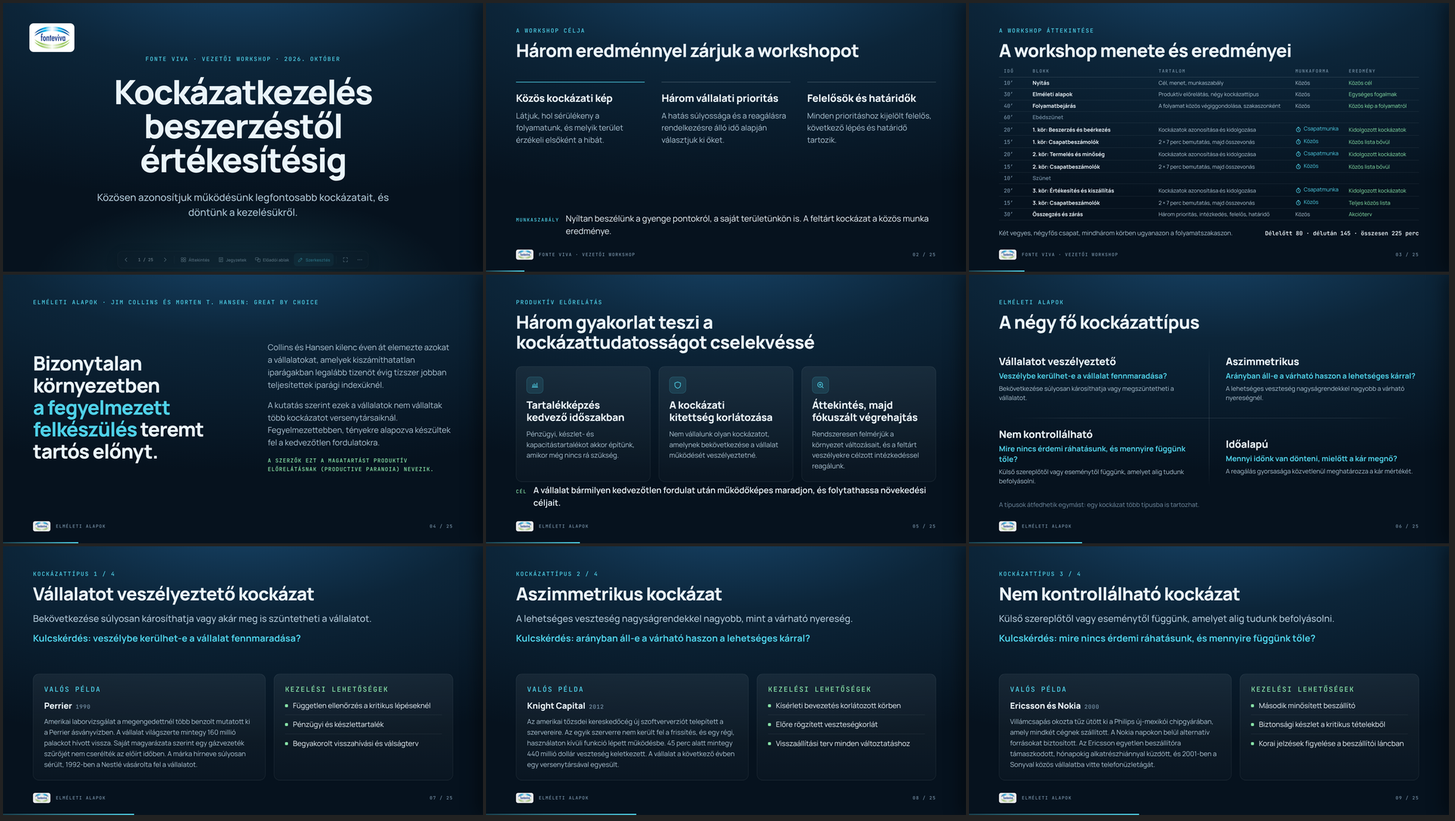
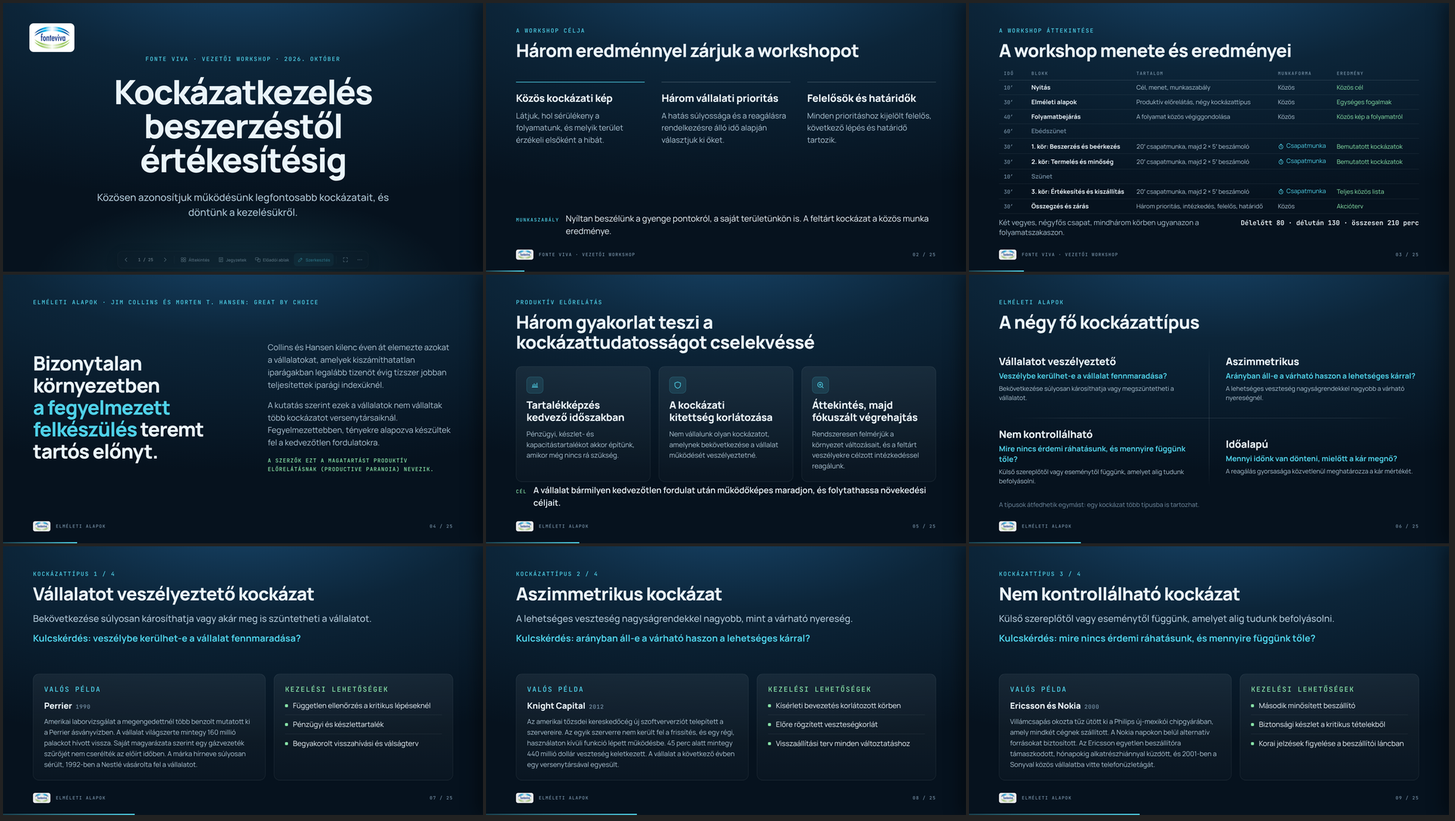
Agenda: one row per round; team presentations 5 minutes each
Each round is a single agenda line (20' teamwork, then 2 x 5'
presentations, 30' in total). Presentation timers default to 5 minutes
and the presentation slot to 10 minutes. Afternoon is now 130 minutes.

Claude-Session: https://claude.ai/code/session_016tPSh7PmmycC1ZoCkMYjCT

Changed region(s): [[0.6846, 0.0938, 0.9647, 0.3125]]

diff --git a/Fonte_Viva_kockazati_workshop.html b/Fonte_Viva_kockazati_workshop.html
@@ -1,5 +1,5 @@
 <!doctype html>
-<html lang="hu" data-rev="v4" data-durations='{"open":10,"basics":30,"walk":40,"lunch":60,"r1":20,"p1":15,"r2":20,"p2":15,"brk":10,"r3":20,"p3":15,"sum":30,"rep":7}' data-sound="1">
+<html lang="hu" data-rev="v5" data-durations='{"open":10,"basics":30,"walk":40,"lunch":60,"r1":20,"p1":10,"r2":20,"p2":10,"brk":10,"r3":20,"p3":10,"sum":30,"rep":5}' data-sound="1">
 <head>
 <meta charset="utf-8">
 <meta name="viewport" content="width=device-width, initial-scale=1">
@@ -81,9 +81,9 @@ body.on-cover #foot,body.on-cover #progress{display:none}
 .rule .lbl{color:var(--cyan);flex:none}
 
 /* agenda table */
-.agt{width:100%;border-collapse:collapse;margin-top:26px;font-size:18px;table-layout:fixed}
-.agt th{font-family:var(--m);font-weight:500;font-size:15px;letter-spacing:.15em;text-transform:uppercase;color:var(--dim);text-align:left;padding:0 16px 10px;border-bottom:1px solid var(--line2)}
-.agt td{padding:6px 16px;border-bottom:1px solid var(--line);vertical-align:baseline;line-height:1.35;color:var(--soft)}
+.agt{width:100%;border-collapse:collapse;margin-top:34px;font-size:20.5px;table-layout:fixed}
+.agt th{font-family:var(--m);font-weight:500;font-size:15px;letter-spacing:.15em;text-transform:uppercase;color:var(--dim);text-align:left;padding:0 16px 12px;border-bottom:1px solid var(--line2)}
+.agt td{padding:10px 16px;border-bottom:1px solid var(--line);vertical-align:baseline;line-height:1.35;color:var(--soft)}
 .agt tbody tr{cursor:pointer;transition:background .15s}
 .agt tbody tr:hover{background:rgba(79,209,232,.07)}
 body.editing .agt tbody tr{cursor:text}
@@ -95,8 +95,8 @@ body.editing .agt tbody tr{cursor:text}
 .agt .out{color:var(--aqua)}
 .agt tr.brk .nm{color:var(--dim);font-weight:600}
 .agt tr.pm td{border-top:1px solid var(--line2)}
-.agenda-foot{margin-top:auto!important;display:flex;justify-content:space-between;align-items:baseline;gap:40px;font-size:21px;color:var(--soft)}
-.agenda-foot b{font-family:var(--m);color:var(--ink);font-size:19px;font-weight:600;white-space:nowrap}
+.agenda-foot{margin-top:auto!important;display:flex;justify-content:space-between;align-items:baseline;gap:40px;font-size:24px;color:var(--soft)}
+.agenda-foot b{font-family:var(--m);color:var(--ink);font-size:22px;font-weight:600;white-space:nowrap}
 
 /* collins intro */
 .split{display:grid;grid-template-columns:1.05fr .95fr;gap:100px;align-items:center;flex:1}
@@ -530,27 +530,24 @@ body.editing #sheets-view{top:58px}
     <h2 class="h2" data-e>A workshop menete és eredményei</h2>
   </div>
   <table class="agt" data-m>
-    <colgroup><col style="width:96px"><col style="width:420px"><col><col style="width:178px"><col style="width:250px"></colgroup>
+    <colgroup><col style="width:92px"><col style="width:350px"><col><col style="width:196px"><col style="width:290px"></colgroup>
     <thead><tr><th data-e>Idő</th><th data-e>Blokk</th><th data-e>Tartalom</th><th data-e>Munkaforma</th><th data-e>Eredmény</th></tr></thead>
     <tbody>
       <tr data-goto="open"><td class="t calc" data-calc="min:open"></td><td class="nm" data-e data-phasename="open">Nyitás</td><td data-e>Cél, menet, munkaszabály</td><td class="fm"><span data-e>Közös</span></td><td class="out" data-e>Közös cél</td></tr>
       <tr data-goto="basics"><td class="t calc" data-calc="min:basics"></td><td class="nm" data-e data-phasename="basics">Elméleti alapok</td><td data-e>Produktív előrelátás, négy kockázattípus</td><td class="fm"><span data-e>Közös</span></td><td class="out" data-e>Egységes fogalmak</td></tr>
-      <tr data-goto="walk"><td class="t calc" data-calc="min:walk"></td><td class="nm" data-e data-phasename="walk">Folyamatbejárás</td><td data-e>A folyamat közös végiggondolása, szakaszonként</td><td class="fm"><span data-e>Közös</span></td><td class="out" data-e>Közös kép a folyamatról</td></tr>
+      <tr data-goto="walk"><td class="t calc" data-calc="min:walk"></td><td class="nm" data-e data-phasename="walk">Folyamatbejárás</td><td data-e>A folyamat közös végiggondolása</td><td class="fm"><span data-e>Közös</span></td><td class="out" data-e>Közös kép a folyamatról</td></tr>
       <tr data-goto="lunch" class="brk"><td class="t calc" data-calc="min:lunch"></td><td class="nm" data-e data-phasename="lunch">Ebédszünet</td><td data-e></td><td class="fm"></td><td class="out" data-e></td></tr>
-      <tr data-goto="r1" class="pm"><td class="t calc" data-calc="min:r1"></td><td class="nm" data-e data-phasename="r1">1. kör: Beszerzés és beérkezés</td><td data-e>Kockázatok azonosítása és kidolgozása</td><td class="fm"><span class="ck"><svg viewBox="0 0 24 24" fill="none" stroke="currentColor" stroke-width="2" stroke-linecap="round"><circle cx="12" cy="13" r="8"/><path d="M12 9v4l2.5 2M9.5 2.5h5"/></svg><span data-e>Csapatmunka</span></span></td><td class="out" data-e>Kidolgozott kockázatok</td></tr>
-      <tr data-goto="p1"><td class="t calc" data-calc="min:p1"></td><td class="nm" data-e data-phasename="p1">1. kör: Csapatbeszámolók</td><td data-e>2 × 7 perc bemutatás, majd összevonás</td><td class="fm"><span class="ck"><svg viewBox="0 0 24 24" fill="none" stroke="currentColor" stroke-width="2" stroke-linecap="round"><circle cx="12" cy="13" r="8"/><path d="M12 9v4l2.5 2M9.5 2.5h5"/></svg><span data-e>Közös</span></span></td><td class="out" data-e>Közös lista bővül</td></tr>
-      <tr data-goto="r2"><td class="t calc" data-calc="min:r2"></td><td class="nm" data-e data-phasename="r2">2. kör: Termelés és minőség</td><td data-e>Kockázatok azonosítása és kidolgozása</td><td class="fm"><span class="ck"><svg viewBox="0 0 24 24" fill="none" stroke="currentColor" stroke-width="2" stroke-linecap="round"><circle cx="12" cy="13" r="8"/><path d="M12 9v4l2.5 2M9.5 2.5h5"/></svg><span data-e>Csapatmunka</span></span></td><td class="out" data-e>Kidolgozott kockázatok</td></tr>
-      <tr data-goto="p2"><td class="t calc" data-calc="min:p2"></td><td class="nm" data-e data-phasename="p2">2. kör: Csapatbeszámolók</td><td data-e>2 × 7 perc bemutatás, majd összevonás</td><td class="fm"><span class="ck"><svg viewBox="0 0 24 24" fill="none" stroke="currentColor" stroke-width="2" stroke-linecap="round"><circle cx="12" cy="13" r="8"/><path d="M12 9v4l2.5 2M9.5 2.5h5"/></svg><span data-e>Közös</span></span></td><td class="out" data-e>Közös lista bővül</td></tr>
+      <tr data-goto="r1"><td class="t calc" data-calc="round:1"></td><td class="nm" data-e data-phasename="r1">1. kör: Beszerzés és beérkezés</td><td data-e><span class="calc" data-calc="min:r1">20′</span> csapatmunka, majd 2 × <span class="calc" data-calc="min:rep">5′</span> beszámoló</td><td class="fm"><span class="ck"><svg viewBox="0 0 24 24" fill="none" stroke="currentColor" stroke-width="2" stroke-linecap="round"><circle cx="12" cy="13" r="8"/><path d="M12 9v4l2.5 2M9.5 2.5h5"/></svg><span data-e>Csapatmunka</span></span></td><td class="out" data-e>Bemutatott kockázatok</td></tr>
+      <tr data-goto="r2"><td class="t calc" data-calc="round:2"></td><td class="nm" data-e data-phasename="r2">2. kör: Termelés és minőség</td><td data-e><span class="calc" data-calc="min:r2">20′</span> csapatmunka, majd 2 × <span class="calc" data-calc="min:rep">5′</span> beszámoló</td><td class="fm"><span class="ck"><svg viewBox="0 0 24 24" fill="none" stroke="currentColor" stroke-width="2" stroke-linecap="round"><circle cx="12" cy="13" r="8"/><path d="M12 9v4l2.5 2M9.5 2.5h5"/></svg><span data-e>Csapatmunka</span></span></td><td class="out" data-e>Bemutatott kockázatok</td></tr>
       <tr data-goto="brk" class="brk"><td class="t calc" data-calc="min:brk"></td><td class="nm" data-e data-phasename="brk">Szünet</td><td data-e></td><td class="fm"></td><td class="out" data-e></td></tr>
-      <tr data-goto="r3"><td class="t calc" data-calc="min:r3"></td><td class="nm" data-e data-phasename="r3">3. kör: Értékesítés és kiszállítás</td><td data-e>Kockázatok azonosítása és kidolgozása</td><td class="fm"><span class="ck"><svg viewBox="0 0 24 24" fill="none" stroke="currentColor" stroke-width="2" stroke-linecap="round"><circle cx="12" cy="13" r="8"/><path d="M12 9v4l2.5 2M9.5 2.5h5"/></svg><span data-e>Csapatmunka</span></span></td><td class="out" data-e>Kidolgozott kockázatok</td></tr>
-      <tr data-goto="p3"><td class="t calc" data-calc="min:p3"></td><td class="nm" data-e data-phasename="p3">3. kör: Csapatbeszámolók</td><td data-e>2 × 7 perc bemutatás, majd összevonás</td><td class="fm"><span class="ck"><svg viewBox="0 0 24 24" fill="none" stroke="currentColor" stroke-width="2" stroke-linecap="round"><circle cx="12" cy="13" r="8"/><path d="M12 9v4l2.5 2M9.5 2.5h5"/></svg><span data-e>Közös</span></span></td><td class="out" data-e>Teljes közös lista</td></tr>
+      <tr data-goto="r3"><td class="t calc" data-calc="round:3"></td><td class="nm" data-e data-phasename="r3">3. kör: Értékesítés és kiszállítás</td><td data-e><span class="calc" data-calc="min:r3">20′</span> csapatmunka, majd 2 × <span class="calc" data-calc="min:rep">5′</span> beszámoló</td><td class="fm"><span class="ck"><svg viewBox="0 0 24 24" fill="none" stroke="currentColor" stroke-width="2" stroke-linecap="round"><circle cx="12" cy="13" r="8"/><path d="M12 9v4l2.5 2M9.5 2.5h5"/></svg><span data-e>Csapatmunka</span></span></td><td class="out" data-e>Teljes közös lista</td></tr>
       <tr data-goto="sum"><td class="t calc" data-calc="min:sum"></td><td class="nm" data-e data-phasename="sum">Összegzés és zárás</td><td data-e>Három prioritás, intézkedés, felelős, határidő</td><td class="fm"><span data-e>Közös</span></td><td class="out" data-e>Akcióterv</td></tr>
     </tbody>
   </table>
-  <p class="agenda-foot" data-m><span data-e>Két vegyes, négyfős csapat, mindhárom körben ugyanazon a folyamatszakaszon.</span><b>Délelőtt <span class="calc" data-calc="am">80</span> · délután <span class="calc" data-calc="pm">145</span> · összesen <span class="calc" data-calc="total">225</span> perc</b></p>
+  <p class="agenda-foot" data-m><span data-e>Két vegyes, négyfős csapat, mindhárom körben ugyanazon a folyamatszakaszon.</span><b>Délelőtt <span class="calc" data-calc="am">80</span> · délután <span class="calc" data-calc="pm">130</span> · összesen <span class="calc" data-calc="total">210</span> perc</b></p>
   <aside class="notes" data-e>
     <p>A táblázat sorai kattinthatók: a megfelelő blokk első diájára ugranak. Szerkesztés módban nem ugranak, ott a szöveget írod át.</p>
-    <p>Az óra ikon a mért idejű blokkokat jelöli: a három csapatkört és utánuk a csapatbeszámolókat (körönként két óra, csapatonként egy). Az összesen az ebéd nélkül értendő. Az időtartamokat a <b>⋯ → Időtartamok</b> menüben állíthatod.</p>
+    <p>Egy kör egy sor: a csapatmunka és utána rögtön a két csapat beszámolója. Az óra ikon a mért idejű köröket jelöli. Az összesen az ebéd nélkül értendő. Az időtartamokat a <b>⋯ → Időtartamok</b> menüben állíthatod.</p>
   </aside>
 </section>
 
@@ -847,11 +844,11 @@ body.editing #sheets-view{top:58px}
 
 <!-- ================= REPORTS 1 ================= -->
 <section class="slide work" data-phase="p1">
-  <p class="kick" data-m><span data-e>1. kör · Csapatbeszámolók</span> · <span class="calc" data-calc="min:p1">15′</span></p>
+  <p class="kick" data-m><span data-e>1. kör · Csapatbeszámolók</span> · <span class="calc" data-calc="min:p1">10′</span></p>
   <div class="work-grid rep-grid">
     <div>
       <h2 class="h2" data-e data-m>A csapatok bemutatják a kidolgozott kockázatokat</h2>
-      <p class="lbl sub-lbl" data-m><span data-e>Csapatonként</span> <span class="calc" data-calc="min:rep">7′</span></p>
+      <p class="lbl sub-lbl" data-m><span data-e>Csapatonként</span> <span class="calc" data-calc="min:rep">5′</span></p>
       <ul class="pres" data-m>
         <li data-e>A kockázati állítás: ok, esemény, hatás</li>
         <li data-e>A bizonyíték és a meglévő kontroll</li>
@@ -898,11 +895,11 @@ body.editing #sheets-view{top:58px}
 
 <!-- ================= REPORTS 2 ================= -->
 <section class="slide work" data-phase="p2">
-  <p class="kick" data-m><span data-e>2. kör · Csapatbeszámolók</span> · <span class="calc" data-calc="min:p2">15′</span></p>
+  <p class="kick" data-m><span data-e>2. kör · Csapatbeszámolók</span> · <span class="calc" data-calc="min:p2">10′</span></p>
   <div class="work-grid rep-grid">
     <div>
       <h2 class="h2" data-e data-m>A csapatok bemutatják a kidolgozott kockázatokat</h2>
-      <p class="lbl sub-lbl" data-m><span data-e>Csapatonként</span> <span class="calc" data-calc="min:rep">7′</span></p>
+      <p class="lbl sub-lbl" data-m><span data-e>Csapatonként</span> <span class="calc" data-calc="min:rep">5′</span></p>
       <ul class="pres" data-m>
         <li data-e>A kockázati állítás: ok, esemény, hatás</li>
         <li data-e>A bizonyíték és a meglévő kontroll</li>
@@ -957,11 +954,11 @@ body.editing #sheets-view{top:58px}
 
 <!-- ================= REPORTS 3 ================= -->
 <section class="slide work" data-phase="p3">
-  <p class="kick" data-m><span data-e>3. kör · Csapatbeszámolók</span> · <span class="calc" data-calc="min:p3">15′</span></p>
+  <p class="kick" data-m><span data-e>3. kör · Csapatbeszámolók</span> · <span class="calc" data-calc="min:p3">10′</span></p>
   <div class="work-grid rep-grid">
     <div>
       <h2 class="h2" data-e data-m>A csapatok bemutatják a kidolgozott kockázatokat</h2>
-      <p class="lbl sub-lbl" data-m><span data-e>Csapatonként</span> <span class="calc" data-calc="min:rep">7′</span></p>
+      <p class="lbl sub-lbl" data-m><span data-e>Csapatonként</span> <span class="calc" data-calc="min:rep">5′</span></p>
       <ul class="pres" data-m>
         <li data-e>A kockázati állítás: ok, esemény, hatás</li>
         <li data-e>A bizonyíték és a meglévő kontroll</li>
@@ -1187,6 +1184,7 @@ function renderCalcs(scope=document){
     const c=el.dataset.calc;if(!c)return;
     if(c==='total')el.textContent=total();
     else if(c==='am')el.textContent=sumOf(AM);
+    else if(c.startsWith('round:')){const n=c.slice(6);el.textContent=(minOf('r'+n)+minOf('p'+n))+'′'}
     else if(c==='pm')el.textContent=sumOf(PM);
     else if(c.startsWith('min:'))el.textContent=minOf(c.slice(4))+'′';
     else if(c.startsWith('range:')){const k=c.slice(6);el.textContent=`${starts[k]}–${starts[k]+minOf(k)}`}

diff --git a/deploy/index.html b/deploy/index.html
@@ -1,5 +1,5 @@
 <!doctype html>
-<html lang="hu" data-rev="v4" data-durations='{"open":10,"basics":30,"walk":40,"lunch":60,"r1":20,"p1":15,"r2":20,"p2":15,"brk":10,"r3":20,"p3":15,"sum":30,"rep":7}' data-sound="1">
+<html lang="hu" data-rev="v5" data-durations='{"open":10,"basics":30,"walk":40,"lunch":60,"r1":20,"p1":10,"r2":20,"p2":10,"brk":10,"r3":20,"p3":10,"sum":30,"rep":5}' data-sound="1">
 <head>
 <meta charset="utf-8">
 <meta name="viewport" content="width=device-width, initial-scale=1">
@@ -81,9 +81,9 @@ body.on-cover #foot,body.on-cover #progress{display:none}
 .rule .lbl{color:var(--cyan);flex:none}
 
 /* agenda table */
-.agt{width:100%;border-collapse:collapse;margin-top:26px;font-size:18px;table-layout:fixed}
-.agt th{font-family:var(--m);font-weight:500;font-size:15px;letter-spacing:.15em;text-transform:uppercase;color:var(--dim);text-align:left;padding:0 16px 10px;border-bottom:1px solid var(--line2)}
-.agt td{padding:6px 16px;border-bottom:1px solid var(--line);vertical-align:baseline;line-height:1.35;color:var(--soft)}
+.agt{width:100%;border-collapse:collapse;margin-top:34px;font-size:20.5px;table-layout:fixed}
+.agt th{font-family:var(--m);font-weight:500;font-size:15px;letter-spacing:.15em;text-transform:uppercase;color:var(--dim);text-align:left;padding:0 16px 12px;border-bottom:1px solid var(--line2)}
+.agt td{padding:10px 16px;border-bottom:1px solid var(--line);vertical-align:baseline;line-height:1.35;color:var(--soft)}
 .agt tbody tr{cursor:pointer;transition:background .15s}
 .agt tbody tr:hover{background:rgba(79,209,232,.07)}
 body.editing .agt tbody tr{cursor:text}
@@ -95,8 +95,8 @@ body.editing .agt tbody tr{cursor:text}
 .agt .out{color:var(--aqua)}
 .agt tr.brk .nm{color:var(--dim);font-weight:600}
 .agt tr.pm td{border-top:1px solid var(--line2)}
-.agenda-foot{margin-top:auto!important;display:flex;justify-content:space-between;align-items:baseline;gap:40px;font-size:21px;color:var(--soft)}
-.agenda-foot b{font-family:var(--m);color:var(--ink);font-size:19px;font-weight:600;white-space:nowrap}
+.agenda-foot{margin-top:auto!important;display:flex;justify-content:space-between;align-items:baseline;gap:40px;font-size:24px;color:var(--soft)}
+.agenda-foot b{font-family:var(--m);color:var(--ink);font-size:22px;font-weight:600;white-space:nowrap}
 
 /* collins intro */
 .split{display:grid;grid-template-columns:1.05fr .95fr;gap:100px;align-items:center;flex:1}
@@ -530,27 +530,24 @@ body.editing #sheets-view{top:58px}
     <h2 class="h2" data-e>A workshop menete és eredményei</h2>
   </div>
   <table class="agt" data-m>
-    <colgroup><col style="width:96px"><col style="width:420px"><col><col style="width:178px"><col style="width:250px"></colgroup>
+    <colgroup><col style="width:92px"><col style="width:350px"><col><col style="width:196px"><col style="width:290px"></colgroup>
     <thead><tr><th data-e>Idő</th><th data-e>Blokk</th><th data-e>Tartalom</th><th data-e>Munkaforma</th><th data-e>Eredmény</th></tr></thead>
     <tbody>
       <tr data-goto="open"><td class="t calc" data-calc="min:open"></td><td class="nm" data-e data-phasename="open">Nyitás</td><td data-e>Cél, menet, munkaszabály</td><td class="fm"><span data-e>Közös</span></td><td class="out" data-e>Közös cél</td></tr>
       <tr data-goto="basics"><td class="t calc" data-calc="min:basics"></td><td class="nm" data-e data-phasename="basics">Elméleti alapok</td><td data-e>Produktív előrelátás, négy kockázattípus</td><td class="fm"><span data-e>Közös</span></td><td class="out" data-e>Egységes fogalmak</td></tr>
-      <tr data-goto="walk"><td class="t calc" data-calc="min:walk"></td><td class="nm" data-e data-phasename="walk">Folyamatbejárás</td><td data-e>A folyamat közös végiggondolása, szakaszonként</td><td class="fm"><span data-e>Közös</span></td><td class="out" data-e>Közös kép a folyamatról</td></tr>
+      <tr data-goto="walk"><td class="t calc" data-calc="min:walk"></td><td class="nm" data-e data-phasename="walk">Folyamatbejárás</td><td data-e>A folyamat közös végiggondolása</td><td class="fm"><span data-e>Közös</span></td><td class="out" data-e>Közös kép a folyamatról</td></tr>
       <tr data-goto="lunch" class="brk"><td class="t calc" data-calc="min:lunch"></td><td class="nm" data-e data-phasename="lunch">Ebédszünet</td><td data-e></td><td class="fm"></td><td class="out" data-e></td></tr>
-      <tr data-goto="r1" class="pm"><td class="t calc" data-calc="min:r1"></td><td class="nm" data-e data-phasename="r1">1. kör: Beszerzés és beérkezés</td><td data-e>Kockázatok azonosítása és kidolgozása</td><td class="fm"><span class="ck"><svg viewBox="0 0 24 24" fill="none" stroke="currentColor" stroke-width="2" stroke-linecap="round"><circle cx="12" cy="13" r="8"/><path d="M12 9v4l2.5 2M9.5 2.5h5"/></svg><span data-e>Csapatmunka</span></span></td><td class="out" data-e>Kidolgozott kockázatok</td></tr>
-      <tr data-goto="p1"><td class="t calc" data-calc="min:p1"></td><td class="nm" data-e data-phasename="p1">1. kör: Csapatbeszámolók</td><td data-e>2 × 7 perc bemutatás, majd összevonás</td><td class="fm"><span class="ck"><svg viewBox="0 0 24 24" fill="none" stroke="currentColor" stroke-width="2" stroke-linecap="round"><circle cx="12" cy="13" r="8"/><path d="M12 9v4l2.5 2M9.5 2.5h5"/></svg><span data-e>Közös</span></span></td><td class="out" data-e>Közös lista bővül</td></tr>
-      <tr data-goto="r2"><td class="t calc" data-calc="min:r2"></td><td class="nm" data-e data-phasename="r2">2. kör: Termelés és minőség</td><td data-e>Kockázatok azonosítása és kidolgozása</td><td class="fm"><span class="ck"><svg viewBox="0 0 24 24" fill="none" stroke="currentColor" stroke-width="2" stroke-linecap="round"><circle cx="12" cy="13" r="8"/><path d="M12 9v4l2.5 2M9.5 2.5h5"/></svg><span data-e>Csapatmunka</span></span></td><td class="out" data-e>Kidolgozott kockázatok</td></tr>
-      <tr data-goto="p2"><td class="t calc" data-calc="min:p2"></td><td class="nm" data-e data-phasename="p2">2. kör: Csapatbeszámolók</td><td data-e>2 × 7 perc bemutatás, majd összevonás</td><td class="fm"><span class="ck"><svg viewBox="0 0 24 24" fill="none" stroke="currentColor" stroke-width="2" stroke-linecap="round"><circle cx="12" cy="13" r="8"/><path d="M12 9v4l2.5 2M9.5 2.5h5"/></svg><span data-e>Közös</span></span></td><td class="out" data-e>Közös lista bővül</td></tr>
+      <tr data-goto="r1"><td class="t calc" data-calc="round:1"></td><td class="nm" data-e data-phasename="r1">1. kör: Beszerzés és beérkezés</td><td data-e><span class="calc" data-calc="min:r1">20′</span> csapatmunka, majd 2 × <span class="calc" data-calc="min:rep">5′</span> beszámoló</td><td class="fm"><span class="ck"><svg viewBox="0 0 24 24" fill="none" stroke="currentColor" stroke-width="2" stroke-linecap="round"><circle cx="12" cy="13" r="8"/><path d="M12 9v4l2.5 2M9.5 2.5h5"/></svg><span data-e>Csapatmunka</span></span></td><td class="out" data-e>Bemutatott kockázatok</td></tr>
+      <tr data-goto="r2"><td class="t calc" data-calc="round:2"></td><td class="nm" data-e data-phasename="r2">2. kör: Termelés és minőség</td><td data-e><span class="calc" data-calc="min:r2">20′</span> csapatmunka, majd 2 × <span class="calc" data-calc="min:rep">5′</span> beszámoló</td><td class="fm"><span class="ck"><svg viewBox="0 0 24 24" fill="none" stroke="currentColor" stroke-width="2" stroke-linecap="round"><circle cx="12" cy="13" r="8"/><path d="M12 9v4l2.5 2M9.5 2.5h5"/></svg><span data-e>Csapatmunka</span></span></td><td class="out" data-e>Bemutatott kockázatok</td></tr>
       <tr data-goto="brk" class="brk"><td class="t calc" data-calc="min:brk"></td><td class="nm" data-e data-phasename="brk">Szünet</td><td data-e></td><td class="fm"></td><td class="out" data-e></td></tr>
-      <tr data-goto="r3"><td class="t calc" data-calc="min:r3"></td><td class="nm" data-e data-phasename="r3">3. kör: Értékesítés és kiszállítás</td><td data-e>Kockázatok azonosítása és kidolgozása</td><td class="fm"><span class="ck"><svg viewBox="0 0 24 24" fill="none" stroke="currentColor" stroke-width="2" stroke-linecap="round"><circle cx="12" cy="13" r="8"/><path d="M12 9v4l2.5 2M9.5 2.5h5"/></svg><span data-e>Csapatmunka</span></span></td><td class="out" data-e>Kidolgozott kockázatok</td></tr>
-      <tr data-goto="p3"><td class="t calc" data-calc="min:p3"></td><td class="nm" data-e data-phasename="p3">3. kör: Csapatbeszámolók</td><td data-e>2 × 7 perc bemutatás, majd összevonás</td><td class="fm"><span class="ck"><svg viewBox="0 0 24 24" fill="none" stroke="currentColor" stroke-width="2" stroke-linecap="round"><circle cx="12" cy="13" r="8"/><path d="M12 9v4l2.5 2M9.5 2.5h5"/></svg><span data-e>Közös</span></span></td><td class="out" data-e>Teljes közös lista</td></tr>
+      <tr data-goto="r3"><td class="t calc" data-calc="round:3"></td><td class="nm" data-e data-phasename="r3">3. kör: Értékesítés és kiszállítás</td><td data-e><span class="calc" data-calc="min:r3">20′</span> csapatmunka, majd 2 × <span class="calc" data-calc="min:rep">5′</span> beszámoló</td><td class="fm"><span class="ck"><svg viewBox="0 0 24 24" fill="none" stroke="currentColor" stroke-width="2" stroke-linecap="round"><circle cx="12" cy="13" r="8"/><path d="M12 9v4l2.5 2M9.5 2.5h5"/></svg><span data-e>Csapatmunka</span></span></td><td class="out" data-e>Teljes közös lista</td></tr>
       <tr data-goto="sum"><td class="t calc" data-calc="min:sum"></td><td class="nm" data-e data-phasename="sum">Összegzés és zárás</td><td data-e>Három prioritás, intézkedés, felelős, határidő</td><td class="fm"><span data-e>Közös</span></td><td class="out" data-e>Akcióterv</td></tr>
     </tbody>
   </table>
-  <p class="agenda-foot" data-m><span data-e>Két vegyes, négyfős csapat, mindhárom körben ugyanazon a folyamatszakaszon.</span><b>Délelőtt <span class="calc" data-calc="am">80</span> · délután <span class="calc" data-calc="pm">145</span> · összesen <span class="calc" data-calc="total">225</span> perc</b></p>
+  <p class="agenda-foot" data-m><span data-e>Két vegyes, négyfős csapat, mindhárom körben ugyanazon a folyamatszakaszon.</span><b>Délelőtt <span class="calc" data-calc="am">80</span> · délután <span class="calc" data-calc="pm">130</span> · összesen <span class="calc" data-calc="total">210</span> perc</b></p>
   <aside class="notes" data-e>
     <p>A táblázat sorai kattinthatók: a megfelelő blokk első diájára ugranak. Szerkesztés módban nem ugranak, ott a szöveget írod át.</p>
-    <p>Az óra ikon a mért idejű blokkokat jelöli: a három csapatkört és utánuk a csapatbeszámolókat (körönként két óra, csapatonként egy). Az összesen az ebéd nélkül értendő. Az időtartamokat a <b>⋯ → Időtartamok</b> menüben állíthatod.</p>
+    <p>Egy kör egy sor: a csapatmunka és utána rögtön a két csapat beszámolója. Az óra ikon a mért idejű köröket jelöli. Az összesen az ebéd nélkül értendő. Az időtartamokat a <b>⋯ → Időtartamok</b> menüben állíthatod.</p>
   </aside>
 </section>
 
@@ -847,11 +844,11 @@ body.editing #sheets-view{top:58px}
 
 <!-- ================= REPORTS 1 ================= -->
 <section class="slide work" data-phase="p1">
-  <p class="kick" data-m><span data-e>1. kör · Csapatbeszámolók</span> · <span class="calc" data-calc="min:p1">15′</span></p>
+  <p class="kick" data-m><span data-e>1. kör · Csapatbeszámolók</span> · <span class="calc" data-calc="min:p1">10′</span></p>
   <div class="work-grid rep-grid">
     <div>
       <h2 class="h2" data-e data-m>A csapatok bemutatják a kidolgozott kockázatokat</h2>
-      <p class="lbl sub-lbl" data-m><span data-e>Csapatonként</span> <span class="calc" data-calc="min:rep">7′</span></p>
+      <p class="lbl sub-lbl" data-m><span data-e>Csapatonként</span> <span class="calc" data-calc="min:rep">5′</span></p>
       <ul class="pres" data-m>
         <li data-e>A kockázati állítás: ok, esemény, hatás</li>
         <li data-e>A bizonyíték és a meglévő kontroll</li>
@@ -898,11 +895,11 @@ body.editing #sheets-view{top:58px}
 
 <!-- ================= REPORTS 2 ================= -->
 <section class="slide work" data-phase="p2">
-  <p class="kick" data-m><span data-e>2. kör · Csapatbeszámolók</span> · <span class="calc" data-calc="min:p2">15′</span></p>
+  <p class="kick" data-m><span data-e>2. kör · Csapatbeszámolók</span> · <span class="calc" data-calc="min:p2">10′</span></p>
   <div class="work-grid rep-grid">
     <div>
       <h2 class="h2" data-e data-m>A csapatok bemutatják a kidolgozott kockázatokat</h2>
-      <p class="lbl sub-lbl" data-m><span data-e>Csapatonként</span> <span class="calc" data-calc="min:rep">7′</span></p>
+      <p class="lbl sub-lbl" data-m><span data-e>Csapatonként</span> <span class="calc" data-calc="min:rep">5′</span></p>
       <ul class="pres" data-m>
         <li data-e>A kockázati állítás: ok, esemény, hatás</li>
         <li data-e>A bizonyíték és a meglévő kontroll</li>
@@ -957,11 +954,11 @@ body.editing #sheets-view{top:58px}
 
 <!-- ================= REPORTS 3 ================= -->
 <section class="slide work" data-phase="p3">
-  <p class="kick" data-m><span data-e>3. kör · Csapatbeszámolók</span> · <span class="calc" data-calc="min:p3">15′</span></p>
+  <p class="kick" data-m><span data-e>3. kör · Csapatbeszámolók</span> · <span class="calc" data-calc="min:p3">10′</span></p>
   <div class="work-grid rep-grid">
     <div>
       <h2 class="h2" data-e data-m>A csapatok bemutatják a kidolgozott kockázatokat</h2>
-      <p class="lbl sub-lbl" data-m><span data-e>Csapatonként</span> <span class="calc" data-calc="min:rep">7′</span></p>
+      <p class="lbl sub-lbl" data-m><span data-e>Csapatonként</span> <span class="calc" data-calc="min:rep">5′</span></p>
       <ul class="pres" data-m>
         <li data-e>A kockázati állítás: ok, esemény, hatás</li>
         <li data-e>A bizonyíték és a meglévő kontroll</li>
@@ -1187,6 +1184,7 @@ function renderCalcs(scope=document){
     const c=el.dataset.calc;if(!c)return;
     if(c==='total')el.textContent=total();
     else if(c==='am')el.textContent=sumOf(AM);
+    else if(c.startsWith('round:')){const n=c.slice(6);el.textContent=(minOf('r'+n)+minOf('p'+n))+'′'}
     else if(c==='pm')el.textContent=sumOf(PM);
     else if(c.startsWith('min:'))el.textContent=minOf(c.slice(4))+'′';
     else if(c.startsWith('range:')){const k=c.slice(6);el.textContent=`${starts[k]}–${starts[k]+minOf(k)}`}
